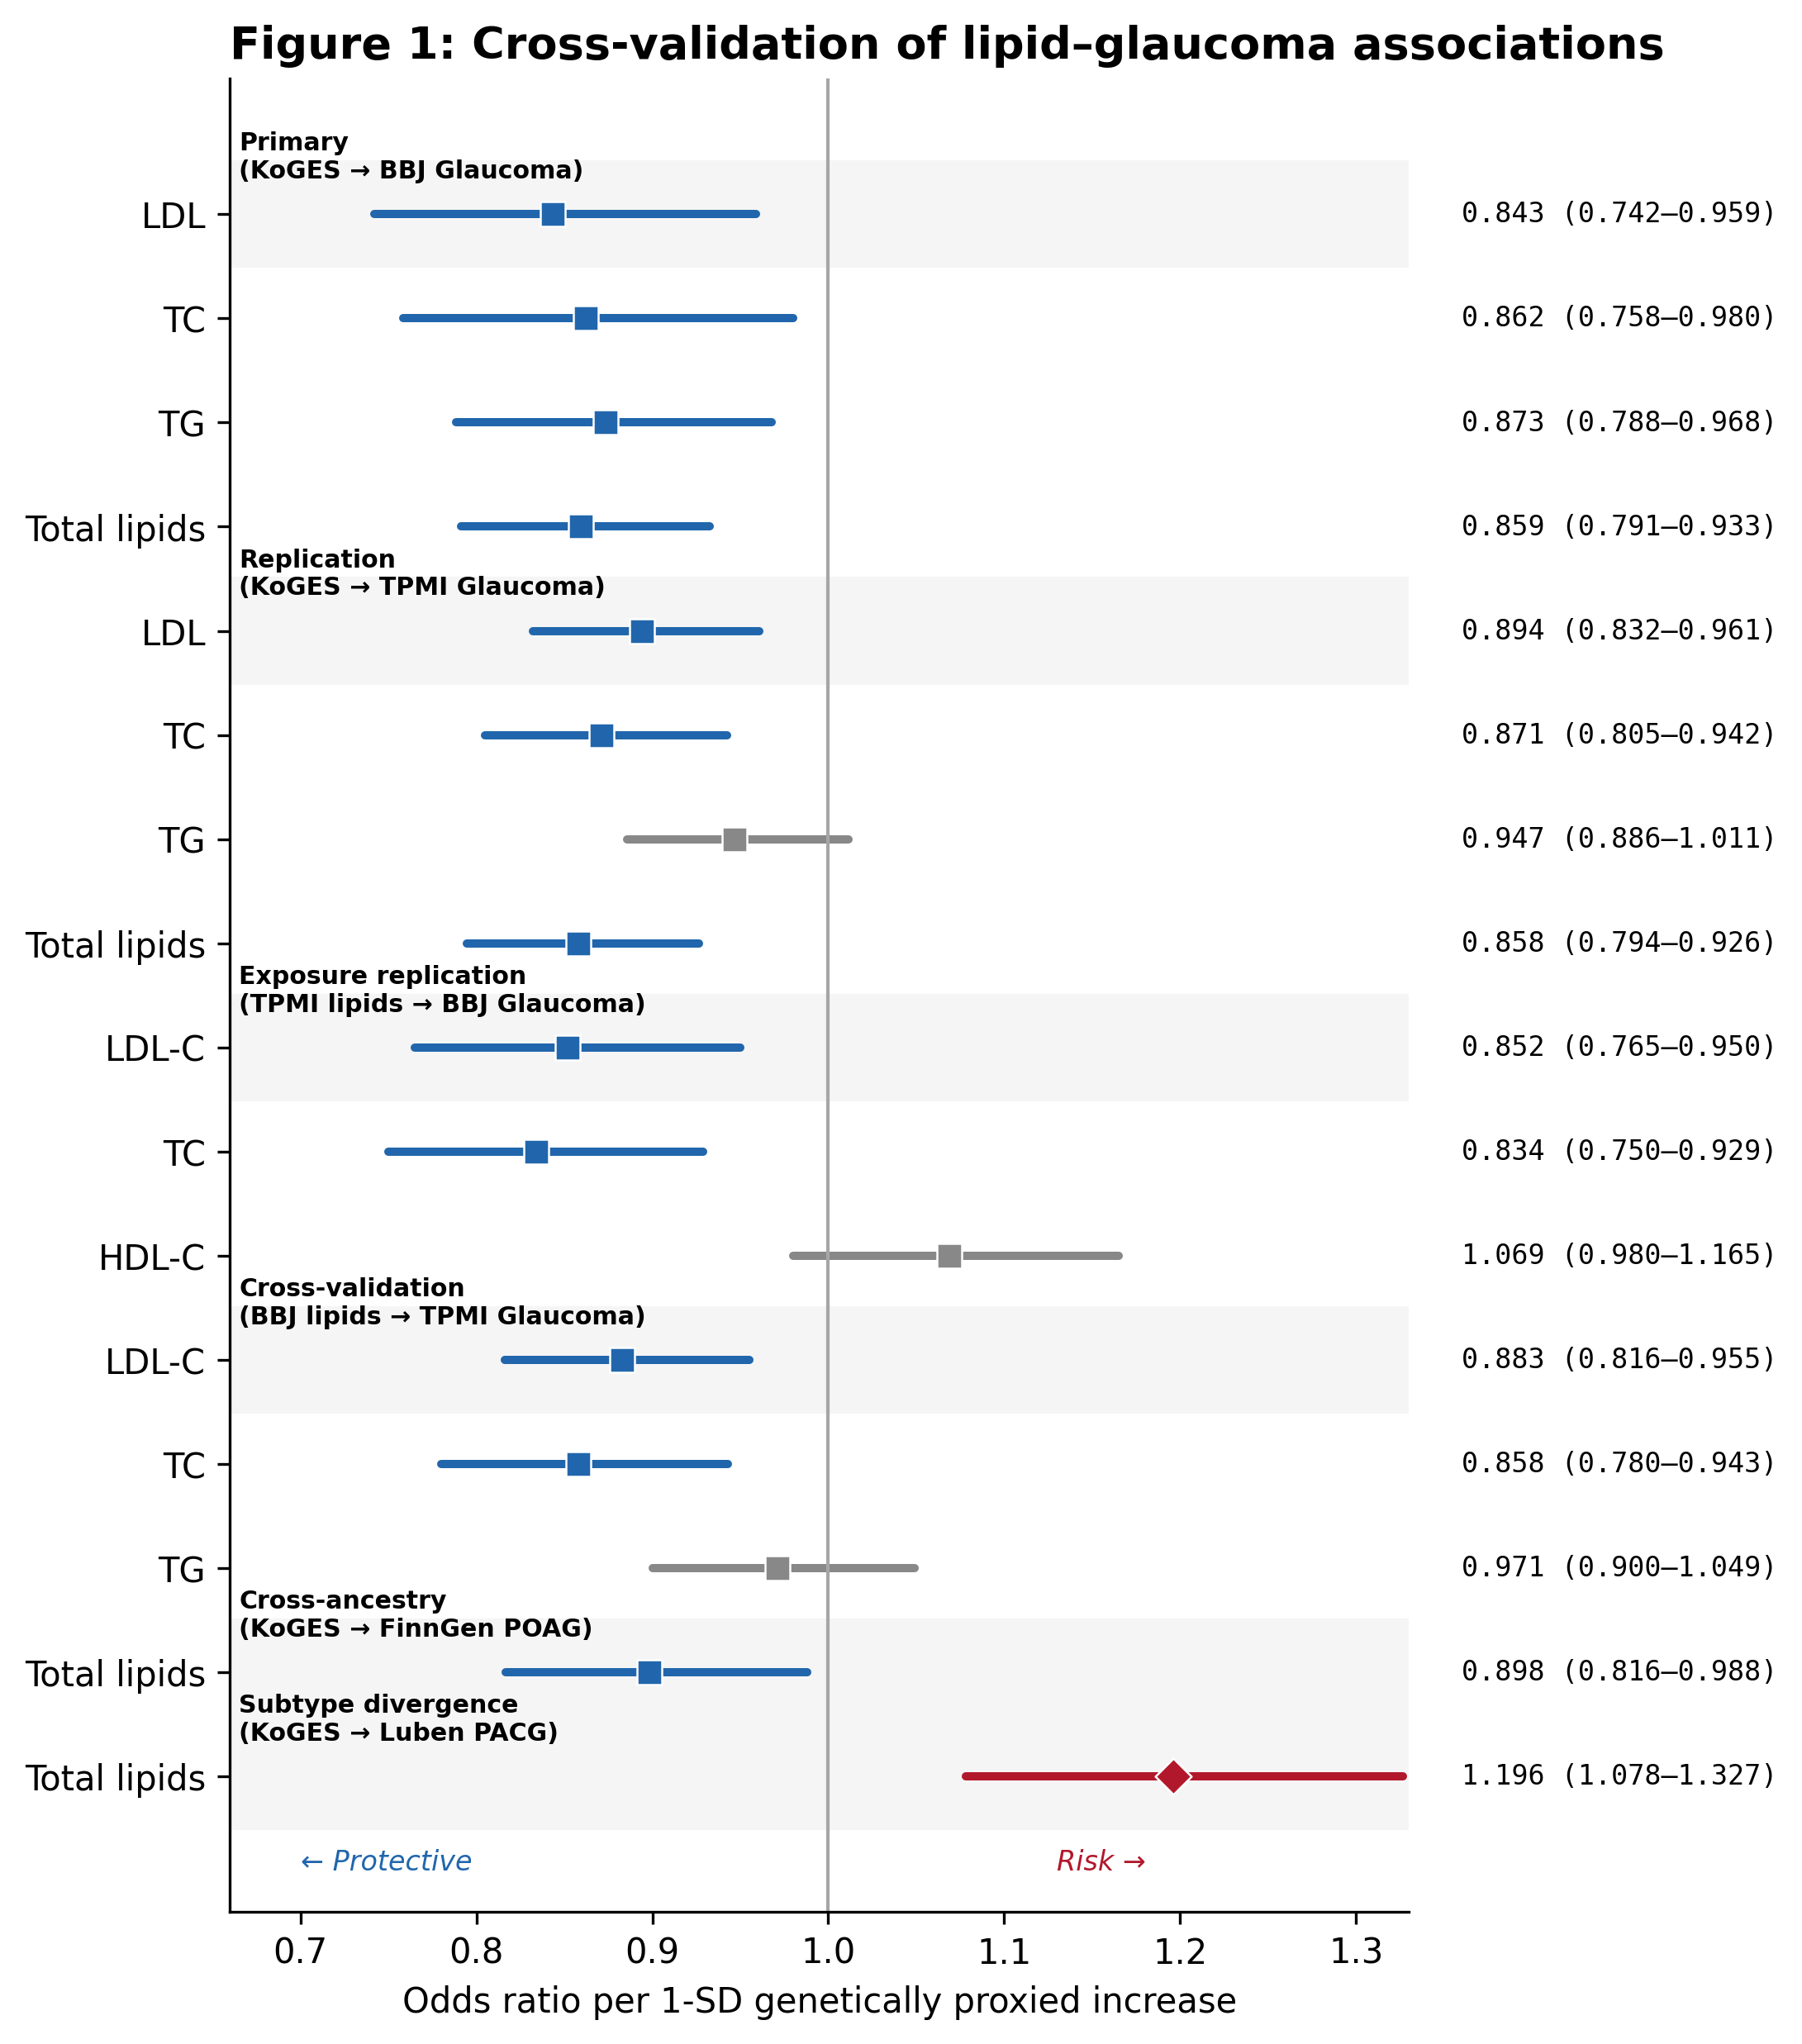
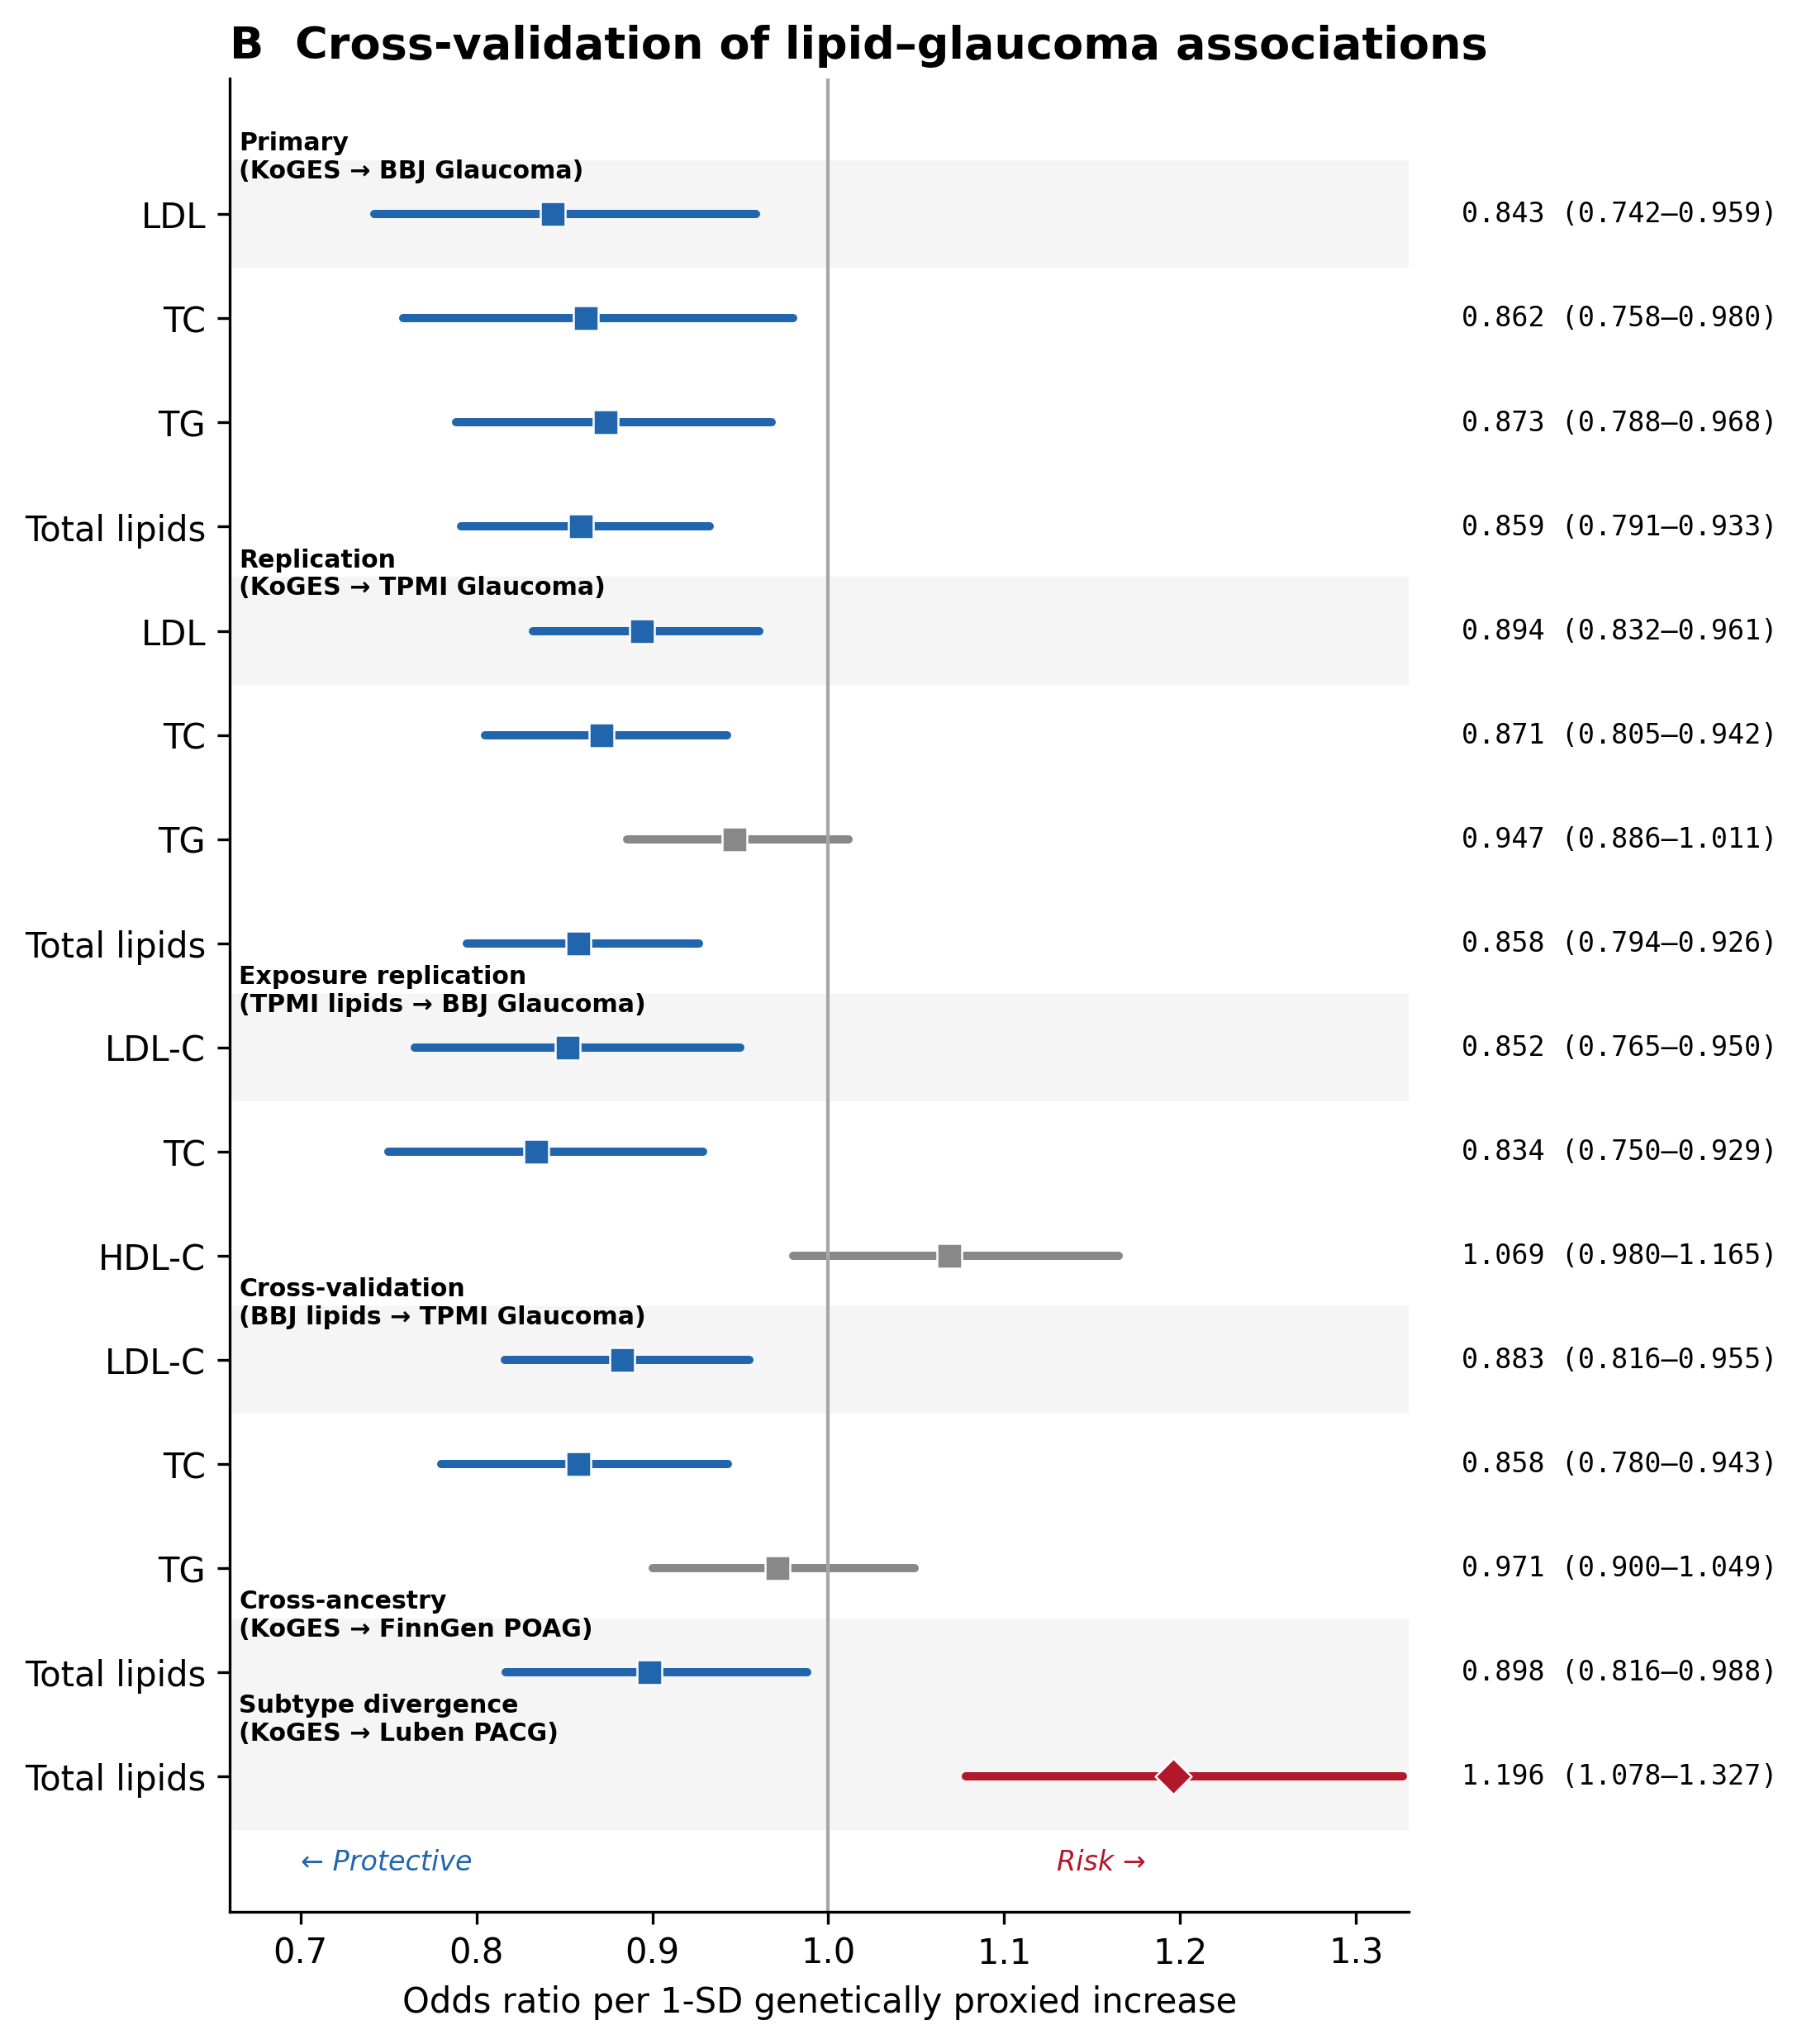
Audit fixes: cis-window consistency, WM bounds guard, S6 table, figure updates
- Fix weighted median bounds guard in code/01_run_mr.py (IndexError edge case)
- Add table_s6_supporting_poag.csv to output/ with README entry
- Update fig1 and fig2 to match final manuscript version
- Rewrite README.md with full parameter table, module details, and repo structure

Changed region(s): [[0.1247, 0.0, 0.9354, 0.0311]]

diff --git a/code/01_run_mr.py b/code/01_run_mr.py
@@ -36,7 +36,7 @@ def weighted_median(beta_exp, se_exp, beta_out, se_out, n_boot=1000):
     order = np.argsort(beta_iv)
     cum_w = np.cumsum(weights[order])
     idx = np.searchsorted(cum_w, 0.5)
-    beta_wm = beta_iv[order[idx]]
+    beta_wm = beta_iv[order[min(idx, len(order)-1)]]
     # Bootstrap SE
     n = len(beta_exp)
     betas_boot = np.empty(n_boot)
@@ -48,7 +48,7 @@ def weighted_median(beta_exp, se_exp, beta_out, se_out, n_boot=1000):
         o = np.argsort(b_iv)
         cw = np.cumsum(w[o])
         j = np.searchsorted(cw, 0.5)
-        betas_boot[i] = b_iv[o[j]]
+        betas_boot[i] = b_iv[o[min(j, len(o)-1)]]
     se_wm = np.std(betas_boot)
     p = 2 * stats.norm.sf(abs(beta_wm / se_wm))
     return beta_wm, se_wm, p

diff --git a/README.md b/README.md
@@ -1,15 +1,10 @@
-# lipid-glaucoma-mr-ea
+# Reproducibility Package — Lipid-Glaucoma MR Study
 
-Reproducibility code and result tables for an East Asian Mendelian randomization study of genetically proxied lipid levels and glaucoma risk.
+## Overview
 
-This repository provides:
+This package provides the analysis code and a runnable demonstration for the Mendelian randomization study of genetically proxied lipid levels and glaucoma risk in East Asian populations.
 
-- runnable demo data for the core MR finding;
-- analysis method modules for MR, MVMR, sensitivity analyses, FDR/consistency tests, drug-target MR, and protein MR;
-- manuscript-reported v7 result CSVs;
-- figure source data and rendered figures for visual inspection.
-
-It is not a self-contained archive of all GWAS summary statistics. Full raw-data reruns require downloading the external GWAS summary statistics and LD reference panel listed in [`data/DATA_SOURCES.md`](data/DATA_SOURCES.md).
+It is a reproducibility code package, not a self-contained archive of all GWAS summary statistics. The included demo data reproduce the core finding using a small real-data subset. The `output/` directory includes the manuscript-reported v7 result CSVs and figure source data for numerical verification. Full raw-data reproduction requires downloading the external GWAS summary statistics and LD reference panel listed in `data/DATA_SOURCES.md`.
 
 ## Key figures
 
@@ -30,46 +25,135 @@ python test_all_modules.py
 python run_demo.py
 ```
 
-Expected test result:
+Expected test result: `26 passed, 0 failed`
 
-```text
-26 passed, 0 failed
+## Requirements
+
+- Python 3.8+
+- numpy >= 1.21, pandas >= 1.4, scipy >= 1.7
+- For full analysis: PLINK 1.9 + 1000 Genomes Phase 3 EAS reference panel
+
+---
+
+## Testing: Two Modes
+
+### Mode 1: Probe Test (~10 seconds)
+
+Verifies functional correctness of all 6 analysis modules.
+
+```bash
+cd demo
+python test_all_modules.py
 ```
 
-The demo reproduces the core finding using a small real-data subset: KoGES total lipids to BBJ glaucoma.
+**Coverage** (26 checks across 6 modules):
+- Module 1: Core MR — IVW (OR direction + significance), WM (direction), Egger (intercept null + direction), PRESSO (execution)
+- Module 2: MVMR — MVMR-IVW (effect direction), SW conditional F (>0), mediation (Sobel execution + proportion <10%)
+- Module 3: Sensitivity — F-statistic (min>10, n_weak=0), Steiger (correct direction), LOO (all significant)
+- Module 4: FDR — BH-FDR (monotonicity + first value), Cochran Q (homogeneity), Interaction z (significance)
+- Module 5: Drug targets — cis-MR framework (4 targets defined), single-IV Wald ratio
+- Module 6: Protein MR — pQTL IVW (execution + direction), Egger sensitivity (execution)
 
-## Repository structure
+**Expected output**: `26 passed, 0 failed`
 
-```text
+### Mode 2: Core Finding Reproduction (~15 seconds)
+
+Reproduces the primary finding using a real GWAS data subset (KOGES total lipids to BBJ Glaucoma).
+
+```bash
+cd demo
+python run_demo.py
+```
+
+**Real data used**: 275 genome-wide significant SNPs from KoGES total lipids GWAS, 9 pre-clumped IVs (r² < 0.01, 10 Mb window, 1000G EAS reference panel).
+
+**Expected output**: IVW OR ≈ 0.87, p < 0.001; Weighted Median OR ≈ 0.85; MR-Egger OR ≈ 0.87, intercept p > 0.05. Minor OR differences from manuscript Table 2 arise because 8 of 9 IVs successfully harmonize in the demo subset.
+
+---
+
+## Full Reproduction
+
+Full reproduction requires external GWAS summary statistics and the LD reference panel. These large files are not redistributed.
+
+### Step 1: Download GWAS data
+
+See `data/DATA_SOURCES.md` for download URLs and format specifications.
+
+### Step 2: Standardize to 12-column TSV
+
+```
+SNP  effect_allele  other_allele  beta  se  pval  eaf  n  trait  source  CHR  POS
+```
+
+### Step 3: Configure paths
+
+Edit path constants in the scripts under `code/` to point to your downloaded files.
+
+### Step 4: Run modules
+
+```bash
+cd code
+python 01_run_mr.py            # Core MR: IVW, WM, MR-Egger, MR-PRESSO, mode-based
+python 02_run_mvmr.py          # MVMR-IVW and mediation
+python 03_sensitivity.py       # F-statistics, Steiger, leave-one-out
+python 04_fdr_consistency.py   # BH-FDR, Cochran Q, interaction z-test
+python 05_drug_target_mr.py    # Drug-target cis-MR
+python 06_protein_mr.py        # Protein pQTL MR
+```
+
+---
+
+## Analysis Parameters
+
+| Parameter | Value | Source |
+|-----------|-------|--------|
+| LD clumping r² | 0.01 | Analysis scripts |
+| LD clumping window | 10,000 kb (10 Mb) | Analysis scripts |
+| Significance threshold (p1) | 5 x 10^-8 | Analysis scripts |
+| Secondary threshold (p2) | 1 x 10^-5 | `01_run_mr.py` |
+| Minimum IVs | 3 | `01_run_mr.py` |
+| F-statistic threshold | 10 | `03_sensitivity.py` |
+| WM bootstrap replicates | 1,000 | `01_run_mr.py` |
+| Mode bootstrap replicates | 1,000 | `01_run_mr.py` |
+| PRESSO simulations | 1,000 | `01_run_mr.py` |
+| IOP-Glaucoma b-path (Khawaja 2018) | beta = 0.18, SE = 0.02 | `02_run_mvmr.py` |
+| Drug target cis-window | +/- 500 kb | `05_drug_target_mr.py` |
+| LD reference | 1000G Phase 3 EAS | PLINK bim/bed/fam |
+| SNP matching | rsID-based | Cross-build harmonization |
+
+---
+
+## Code Modules
+
+| File | Function |
+|------|----------|
+| `01_run_mr.py` | IVW, Weighted Median, MR-Egger, MR-PRESSO, Mode-based, harmonize |
+| `02_run_mvmr.py` | MVMR-IVW, SW conditional F, mediation (product-of-coefficients + Sobel) |
+| `03_sensitivity.py` | F-statistics, Steiger directionality, Leave-one-out |
+| `04_fdr_consistency.py` | Benjamini-Hochberg FDR, Cochran Q, Interaction z-test |
+| `05_drug_target_mr.py` | cis-MR for 4 drug targets (gene coordinates + cis-window extraction) |
+| `06_protein_mr.py` | pQTL MR-IVW + WM/Egger sensitivity |
+
+---
+
+## Directory Structure
+
+```
 .
-├── code/          # Analysis method modules
-├── data/          # External GWAS data source documentation
-├── demo/          # Self-contained runnable demo
-├── figures/       # Rendered manuscript and supplementary figures
-├── output/        # Manuscript-reported result CSVs and figure source data
-└── requirements.txt
+├── README.md                 This file
+├── requirements.txt          Python dependencies
+├── code/                     Core analysis scripts (6 modules)
+├── data/                     Data source documentation (GWAS downloaded separately)
+├── demo/                     Minimal reproducible example with real data subset
+│   ├── run_demo.py           Reproduce core finding (KOGES LIP → BBJ Glaucoma)
+│   ├── test_all_modules.py   Probe test (26 checks across all modules)
+│   ├── run_mr_core.py        Importable MR function module
+│   ├── exposure_koges_LIP.tsv  Real exposure data (275 significant SNPs)
+│   └── outcome_bbj_Gla.tsv    Real outcome data (207 matched SNPs)
+├── figures/                  Rendered manuscript and supplementary figures
+└── output/                   Manuscript-reported result CSVs and figure source data
 ```
-
-## Reproduction levels
-
-| Level | What is included | External data needed |
-|---|---|---|
-| Demo reproduction | Included demo TSVs and `demo/run_demo.py` | No |
-| Method validation | `demo/test_all_modules.py` | No |
-| Manuscript result inspection | v7 result CSVs and figure source data in `output/` | No |
-| Full raw-data rerun | Method modules and data-source documentation | Yes |
-
-## Output files
-
-The `output/` directory contains:
-
-- final manuscript result tables;
-- supplementary table source CSVs;
-- figure source CSVs;
-- numeric/reference/output audit files.
-
-See [`output/README.md`](output/README.md) for details.
 
 ## Citation
 
-If you use this code or result tables, please cite the associated manuscript.
+If you use this code, please cite our manuscript.

diff --git a/output/README.md b/output/README.md
@@ -42,6 +42,7 @@ These outputs are not a substitute for raw-data reproduction: full reruns still 
 | `table_s3_drugtarget.csv` | Supplementary Table S3: drug-target cis-MR results |
 | `table_s4_protein_mr.csv` | Supplementary Table S4: protein MR results |
 | `table_s5_sensitivity.csv` | Supplementary Table S5: sensitivity analysis details |
+| `table_s6_supporting_poag.csv` | Supplementary Table S6: supporting GBMI East Asian POAG analyses |
 
 ## Audit files
 